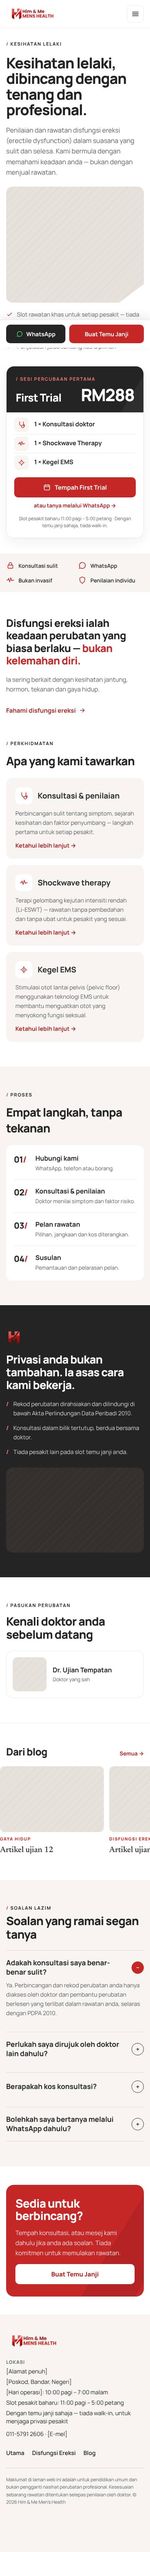
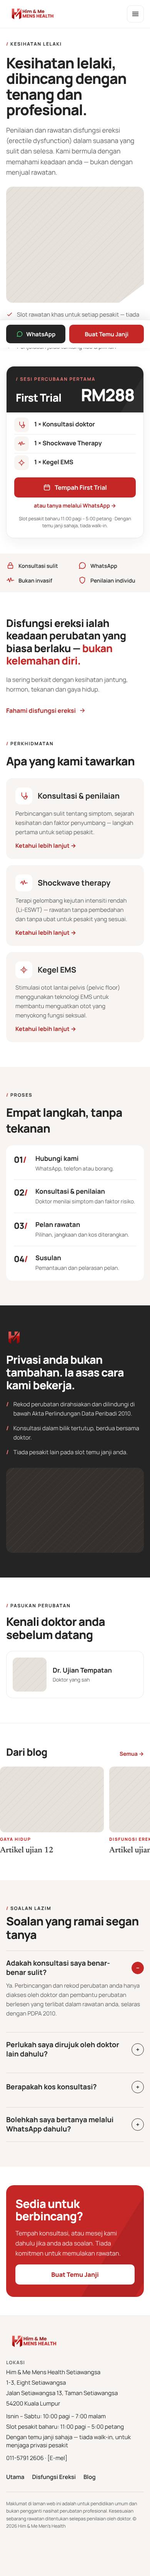
Apply verified address and operating days
- Footer address (blok-maklumat-hubungan excerpt and theme fallback):
  Him & Me Mens Health Setiawangsa, 1-3 Eight Setiawangsa, Jalan
  Setiawangsa 13, Taman Setiawangsa, 54200 Kuala Lumpur.
- Operating days Isnin - Sabtu (footer block, opening_hours_short).
- address_short default: Eight Setiawangsa, Kuala Lumpur.
- Footer renders one element per address line (split helper) so wrapped
  lines stay tight; hours fallback uses opening_hours_short.
- Stage 2 S9 compares HTML-escaped address text.

Claude-Session: https://claude.ai/code/session_01U2VADpihLRmBJD5br2Zc9P

diff --git a/assets/css/site/footer.css b/assets/css/site/footer.css
@@ -13,7 +13,9 @@
 .hm-footer__col--hubungi { flex: 0 1 180px; }
 .hm-footer__col--laman { flex: 0 1 160px; }
 .hm-footer__heading { font-size: 13px; letter-spacing: 0.1em; color: var(--hm-text-2); font-weight: 700; }
-.hm-footer__address { white-space: pre-line; line-height: calc(1.366em + 10px); margin: -5px 0; } /* one line per address line, spaced like the prototype's 10px gap */
+.hm-footer__address { display: block; }
+.hm-footer__line { display: block; margin: 0 0 10px; } /* one element per address line, 10px apart as in the prototype */
+.hm-footer__line:last-child { margin-bottom: 0; }
 .hm-footer__hours p { margin: 0 0 10px; }
 .hm-footer__hours p:last-child { margin-bottom: 0; }
 .hm-footer__maps { font-weight: 600; }
@@ -35,7 +37,7 @@
 .hm-footer__m-info { display: flex; flex-direction: column; gap: 6px; font-size: 15px; }
 .hm-footer__m-info .hm-footer__heading { font-size: 12px; }
 .hm-footer__m-info .hm-footer__hours p { margin: 0 0 6px; }
-.hm-footer__m-info .hm-footer__address { line-height: calc(1.366em + 6px); margin: -3px 0; }
+.hm-footer__m-info .hm-footer__line { margin-bottom: 6px; }
 .hm-footer__m-links { display: flex; gap: 20px; font-size: 15px; font-weight: 600; flex-wrap: wrap; }
 .hm-footer__m-links a { color: var(--hm-charcoal); text-decoration: none; }
 .hm-footer__m-disclaimer { font-size: 12px; line-height: 1.6; color: var(--hm-text-2); border-top: 1px solid var(--hm-rule-warm); padding-top: 20px; }

diff --git a/docs/CLINICAL-REVIEW.md b/docs/CLINICAL-REVIEW.md
@@ -116,6 +116,10 @@ Status legend: ☐ to review · **[Sahkan]** / **[Jawapan…]** = a placeholder 
 | `kegel_ems_price` | RM350 / sesi (normal price) |
 | `doctor_credentials` | Doktor yang sah |
 | `offer_price` | RM288 |
+| `address_short` | Eight Setiawangsa, Kuala Lumpur |
+| `opening_hours_short` | Isnin – Sabtu, 10 pagi – 7 malam · dengan temu janji sahaja |
+| Full address (block `blok-maklumat-hubungan` excerpt) | Him & Me Mens Health Setiawangsa · 1-3, Eight Setiawangsa · Jalan Setiawangsa 13, Taman Setiawangsa · 54200 Kuala Lumpur |
+| Operating days (same block, body) | Isnin – Sabtu: 10:00 pagi – 7:00 malam |
 | `consultation_fee` | RM150 (percuma dengan First Trial) |
 
 First Trial **RM288** (1 consultation + 1 Shockwave Therapy + 1 Kegel EMS): implemented, see section D. Set in theme setting `offer_price`.
@@ -124,6 +128,6 @@ First Trial **RM288** (1 consultation + 1 Shockwave Therapy + 1 Kegel EMS): impl
 1. **A12: consultation tiles.** ✏ Fee set to "RM150 (percuma dengan First Trial)". **TEMPOH** (consultation length) is still unknown: give it, or leave the setting empty to hide the tile.
 2. **RM288 First Trial offer:** ✅ implemented (section D). D3–D4 wording still to confirm.
 3. **Session length** for Shockwave and Kegel EMS is still unknown: give it, or leave the settings empty to hide those tiles. **Number of sessions:** now the combined programme "Anggaran 7–10 sesi rawatan" (A25). The separate per-treatment estimates were removed.
-4. **Operating days** for "10:00 pagi – 7:00 malam" (footer block `blok-maklumat-hubungan` shows "[Hari operasi]").
-5. **Notis Privasi** and **Dasar Editorial** page content; `address_short` and the full address (footer block excerpt).
+4. **Operating days:** ✅ Isnin – Sabtu.
+5. **Notis Privasi** and **Dasar Editorial** page content. (Address ✅ applied. `contact_email` is still "[E-mel]": give the address, or leave it empty to hide it.)
 6. **Advertising check:** keep the source for "12,000 kontraksi" and the published prices on file. (No "nilai biasa" comparison is shown with the offer.)

diff --git a/docs/STAGE-4-REPORT.md b/docs/STAGE-4-REPORT.md
@@ -114,10 +114,16 @@
 | 3 | **Phone content parity** (carried over from Stage 4). | The phone page shows all content (it's longer than the board). | A (recommended): keep. B: hide those elements on phones. |
 | 4 | **D3–D4 offer wording** (`docs/CLINICAL-REVIEW.md`, section D). | Reworded from accepted statements. | Confirm or edit in the block. No developer needed. |
 
+**Applied after the report:**
+- **Address:**
+  - Footer: "Him & Me Mens Health Setiawangsa / 1-3, Eight Setiawangsa / Jalan Setiawangsa 13, Taman Setiawangsa / 54200 Kuala Lumpur".
+  - Top bar: "Eight Setiawangsa, Kuala Lumpur".
+- **Operating days:** Isnin – Sabtu.
+- **Footer fix:** each address line is now rendered as its own element. A long line that wraps stays tight, and real line breaks keep the designed 10px gap.
+
 **Still needed from you (content):**
-- Consultation and session durations (or leave the settings empty to hide those tiles).
-- Operating days.
-- Address.
+- Consultation and session durations (or leave them empty to hide those tiles).
+- Public email address (or leave it empty).
 - Notis Privasi and Dasar Editorial page content.
 - Confirmation that 601157912606 is the WhatsApp number.
 
